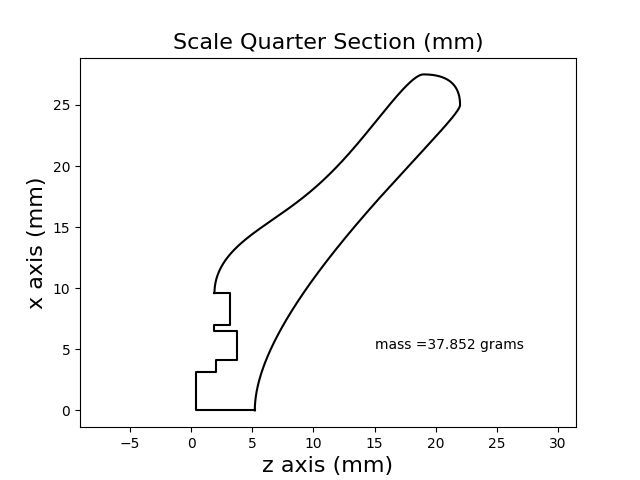
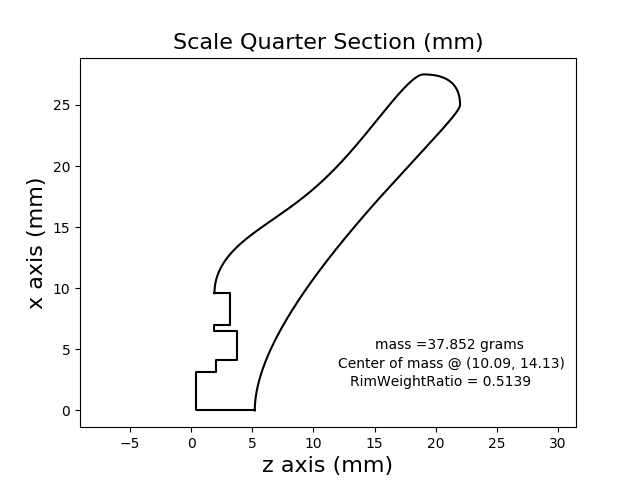
Now calculates centroid coordinates, and rimweighratio, and displays those values out to the plotted png via matplotlib

Changed region(s): [[0.5312, 0.75, 0.875, 0.8125]]

diff --git a/PythonAttempt/pythonattempt02.py b/PythonAttempt/pythonattempt02.py
@@ -9,6 +9,7 @@ from BearingSubtract import BearingSubtract
 from ProfileSubtract import ProfileSubtract
 from RimSubtract import RimSubtract
 from CupSubtract import CupSubtract
+from centroid import centroid
 '''
     This code will be structured for the purpose of having a running
 calculation of mass.  In order to properly propogate this,
@@ -87,6 +88,15 @@ cup = np.column_stack((Cx, Cy))
 megamat = np.concatenate((prof,rim,cup),axis=0)
 megamatx = np.concatenate((Px, Rx, Cx),axis=0)
 megamaty = np.concatenate((Py, Ry, Cy),axis=0)
+
+# Now, I want to calculate rim weight coeficient
+# First, I need area
+Bdata = np.loadtxt('BearingSeatCoords_C.txt')
+bulkmat = np.concatenate((Bdata,megamat), axis=0)
+Cx, Cy, RimWeightRatio = centroid(bulkmat)
+print(Cx, Cy, RimWeightRatio)
+# EVERYTHING AFTER THIS POINT IS JUST PLOTTING. I SHOULD REALLY MAKE THIS
+# ... A FUNCTION INSTEAD.
 font = {'family': 'sans',
         'color':  'black',
         'weight': 'normal',
@@ -97,9 +107,14 @@ plt.xlabel('z axis (mm)',fontdict=font)
 plt.ylabel('x axis (mm)',fontdict=font)
 mass = str(halfmass)[:6]
 plt.text(15, 5, 'mass =%s grams' % (mass))
+Cxs = str(Cx)[:5]
+Cys = str(Cy)[:5]
+plt.text(12,3.5, 'Center of mass @ (%s, %s)' %(Cxs, Cys))
+RimWeight_s = str(RimWeightRatio)[:6]
+plt.text(13, 2, 'RimWeightRatio = %s' % RimWeight_s)
 plt.plot(megamatx, megamaty, 'k')
-# And now the bearing seat must be plotted
-Bdata = np.loadtxt('BearingSeatCoords_C.txt')
+# And now the bearing seat must be plotted.
 plt.plot(Bdata[:,0], Bdata[:,1], 'k')
 plt.axis('equal')
 plt.savefig('figure.png')
+plt.show()

diff --git a/PythonAttempt/centroid.py b/PythonAttempt/centroid.py
@@ -1,0 +1,31 @@
+def centroid(matrix):
+    import numpy as np
+    def PolygonArea(corners):
+        n = len(corners) # of corners
+        area = 0.0
+        for i in range(n):
+            j = (i + 1) % n
+            area += corners[i][0] * corners[j][1]
+            area -= corners[j][0] * corners[i][1]
+        area = abs(area) / 2.0
+        return area
+    area = PolygonArea(matrix)
+    l = len(matrix)
+    Cx = 0.0
+    Cy = 0.0
+    xnums = 0.0
+    ynums = 0.0
+    for i in range(0,l-1):
+        xi = matrix[i,0]
+        yi = matrix[i,1]
+        xip = matrix[i+1,0]
+        yip = matrix[i+1,1]
+        xadd = (xi+xip)*((xi*yip)-(xip*yi))
+        yadd = (yi+yip)*((xi*yip)-(xip*yi))
+        xnums = xnums + xadd
+        ynums = ynums + yadd
+    Cx = abs((1/(6*area))*xnums)
+    Cy = abs((1/(6*area))*ynums)
+    Sdata = np.genfromtxt('specs.txt', usecols = 0, delimiter=',', dtype=None)
+    RimWeightRatio = Cy/(Sdata[1]/2)
+    return Cx, Cy, RimWeightRatio
